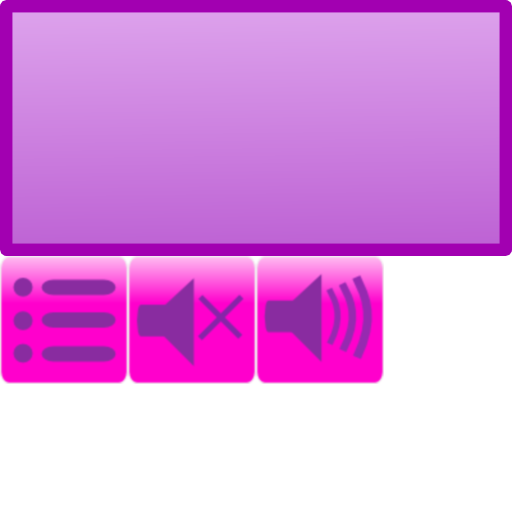
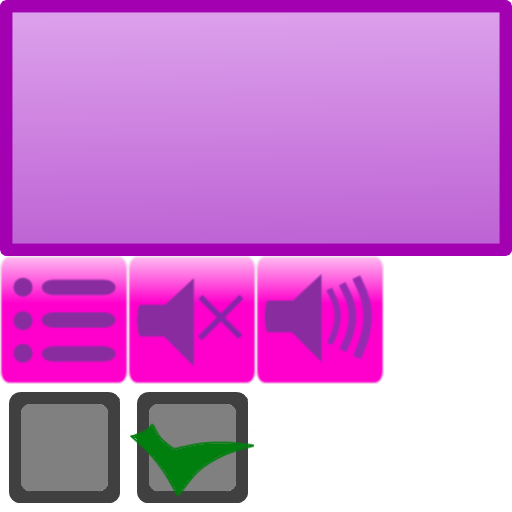
Fixat en ny settings
Positioner och scaling är måste fixas etc

Changed region(s): [[0.0, 0.75, 0.5, 1.0]]

diff --git a/Skid marks/Tutorial/src/com/skid/marks/menu/Menu.java b/Skid marks/Tutorial/src/com/skid/marks/menu/Menu.java
@@ -56,7 +56,6 @@ public class Menu {
 		if(play_rect.contains(Gdx.input.getX(), Gdx.input.getY())){
 			if(Gdx.input.justTouched()){
 				TutorialGame.state = TutorialGame.States.Gamemode;
-				game.Sounds.play("background", true);
 			}
 			play_texture.setRegion(380, 0, 80, 80);
 			play_texture.flip(false, true);
@@ -66,7 +65,6 @@ public class Menu {
 		if(highscore_rect.contains(Gdx.input.getX(), Gdx.input.getY())){
 			if(Gdx.input.justTouched()){
 				TutorialGame.state = TutorialGame.States.Highscore;
-				game.Sounds.play("background", true);
 			}
 			highscore_texture.setRegion(380, 80, 80, 80);
 			highscore_texture.flip(false,true);
@@ -75,7 +73,6 @@ public class Menu {
 		if(settings_rect.contains(Gdx.input.getX(), Gdx.input.getY())){
 			if(Gdx.input.justTouched()){
 				TutorialGame.state = TutorialGame.States.Settings;
-				game.Sounds.play("background", true);
 			}
 			settings_texture.setRegion(380, 160, 80, 80);
 			settings_texture.flip(false, true);

diff --git a/Skid marks/Tutorial/src/com/skid/marks/manager/Localization.java b/Skid marks/Tutorial/src/com/skid/marks/manager/Localization.java
@@ -21,13 +21,13 @@ public class Localization {
 	private String filePath;
 	private Map<String, Texture> resource;
 	
+	public String language;
+	
 	public Localization() {
-		String lang = validate(Locale.getDefault().toString());
-		this.resource = new HashMap<String, Texture>();
-		this.filePath = "data/locale/" + lang + "/";
+		this(Locale.getDefault().toString());
 	}
 	
-	private Localization(String language) {
+	public Localization(String language) {
 		String lang = validate(language);
 		this.resource = new HashMap<String, Texture>();
 		this.filePath = "data/locale/" + lang+ "/";
@@ -35,10 +35,13 @@ public class Localization {
 	
 	private String validate(String language) {
 		if(language.equals(SWEDISH_CODE)) {
+			language = SWEDISH_CODE;
 			return SWEDISH_CODE;
 		} else if(language.equals(SPANISH_CODE)) {
+			language = SPANISH_CODE;
 			return SPANISH_CODE;
 		} else {
+			language = ENGLISH_CODE;
 			return ENGLISH_CODE;
 		}
 	}

diff --git a/Skid marks/Tutorial/src/com/skid/marks/manager/SoundManager.java b/Skid marks/Tutorial/src/com/skid/marks/manager/SoundManager.java
@@ -12,6 +12,8 @@ public class SoundManager {
 	private Map<String, Sound> sounds = new HashMap<String, Sound>();
 	private Map<String, Music> music = new HashMap<String, Music>();
 	
+	private boolean soundOn = true;
+	
 	public SoundManager() {
 		// Sounds
 		sounds.put("explosion", Gdx.audio.newSound(Gdx.files.internal("data/sfx/explosion.wav")));
@@ -34,6 +36,8 @@ public class SoundManager {
 	 * Spela upp ett ljud eller musik
 	 **/
 	public void play(String name) {
+		if(!soundOn)
+			return;
 		if(sounds.containsKey(name)) {
 			Sound s = sounds.get(name);
 			s.stop();
@@ -69,6 +73,15 @@ public class SoundManager {
 		}
 		for(Music m : music.values()) {
 			m.stop();
+		}
+	}
+	
+	public void setSound(boolean on) {
+		if(on) {
+			soundOn = true;
+		} else {
+			soundOn = false;
+			stopAll();
 		}
 	}
 }

diff --git a/Skid marks/Tutorial/src/com/skid/marks/tutorial/TutorialGame.java b/Skid marks/Tutorial/src/com/skid/marks/tutorial/TutorialGame.java
@@ -10,14 +10,12 @@ import com.badlogic.gdx.Preferences;
 import com.badlogic.gdx.graphics.GL20;
 import com.badlogic.gdx.graphics.OrthographicCamera;
 import com.badlogic.gdx.graphics.g2d.BitmapFont;
-import com.badlogic.gdx.graphics.g2d.Sprite;
 import com.badlogic.gdx.graphics.g2d.SpriteBatch;
 import com.skid.marks.manager.Localization;
 import com.skid.marks.manager.SoundManager;
 import com.skid.marks.manager.TextureManager;
 import com.skid.marks.manager.particle.ParticleManager;
 import com.skid.marks.manager.particle.PedjaStars;
-import com.skid.marks.manager.particle.Star;
 import com.skid.marks.menu.GameMode;
 import com.skid.marks.menu.GameOver;
 import com.skid.marks.menu.Highscore;

diff --git a/Skid marks/Tutorial/src/com/skid/marks/menu/GameMode.java b/Skid marks/Tutorial/src/com/skid/marks/menu/GameMode.java
@@ -49,6 +49,7 @@ public class GameMode {
 		
 		if(standardModeRect.contains(Gdx.input.getX(), Gdx.input.getY())){
 			if(Gdx.input.justTouched()) {
+				game.Sounds.play("background", true);
 				TutorialGame.state = TutorialGame.States.Play;
 				Level.isRandom = false;
 			}
@@ -58,6 +59,7 @@ public class GameMode {
 		
 		if(endlessModeRect.contains(Gdx.input.getX(), Gdx.input.getY())){
 			if(Gdx.input.justTouched()) {
+				game.Sounds.play("background", true);
 				TutorialGame.state = TutorialGame.States.Play;
 				Level.isRandom = true;
 			}

diff --git a/Skid marks/Tutorial/src/com/skid/marks/menu/GameOver.java b/Skid marks/Tutorial/src/com/skid/marks/menu/GameOver.java
@@ -50,15 +50,16 @@ public class GameOver {
 		
 		if(backRect.contains(Gdx.input.getX(), Gdx.input.getY())){
 			if(Gdx.input.justTouched()) {
+				game.Sounds.play("menu", true);
 				TutorialGame.state = TutorialGame.States.Menu;
-					game.reset();
+				game.reset();
 			}
 		}
 		
 		if(playRect.contains(Gdx.input.getX(), Gdx.input.getY())){
 			if(Gdx.input.justTouched()) {
 				TutorialGame.state = TutorialGame.States.Play;
-					game.reset();
+				game.reset();
 			}
 		}
 	}
